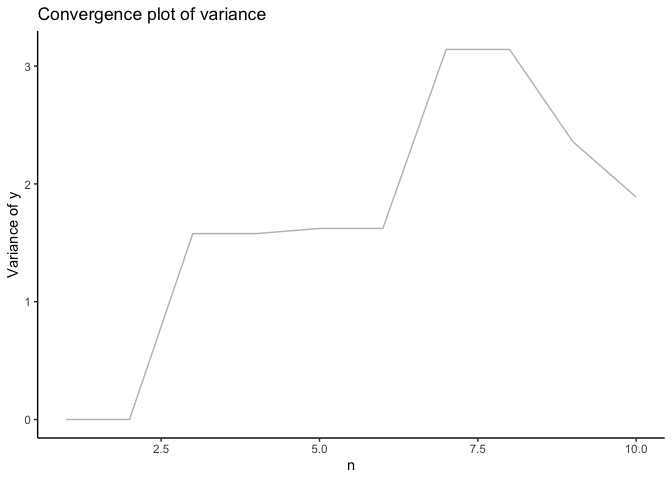
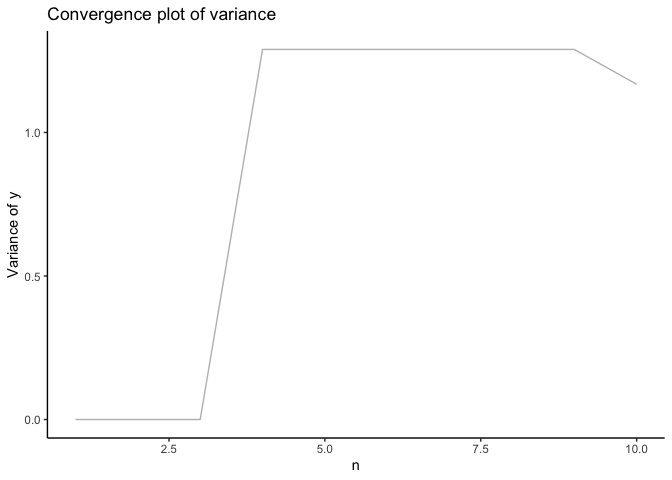
Modification to the readme file.

diff --git a/README.md b/README.md
@@ -70,6 +70,7 @@ f_norm <- "(1/sqrt(2*pi*1^2))*exp((-(x-0)^2)/(2*1^2))"
 q_unif <- "runif(n, -4, 4)"
 
 # Run the main function ar()
+set.seed(0)
 example_norm_unif <- ar(f_norm, q_unif, c=3.2, n=10)
 ```
 
@@ -93,26 +94,26 @@ ar_print(example_norm_unif)
 #> 
 #> 
 #> $data
-#>    index           x           f     q           y          r           u
-#> 1      1  2.23016545 0.033181676 0.125          NA 0.08295419 0.649477553
-#> 2      2 -0.53463665 0.345813140 0.125 -0.53463665 0.86453285 0.441337788
-#> 3      3 -2.31113649 0.027608972 0.125 -2.31113649 0.06902243 0.004346638
-#> 4      4  2.98233924 0.004672261 0.125          NA 0.01168065 0.576691087
-#> 5      5  0.15781470 0.394005160 0.125  0.15781470 0.98501290 0.687093787
-#> 6      6 -2.51275382 0.016976854 0.125          NA 0.04244213 0.440774988
-#> 7      7  1.97478656 0.056765331 0.125  1.97478656 0.14191333 0.115812211
-#> 8      8 -2.85929873 0.006692732 0.125          NA 0.01673183 0.536986188
-#> 9      9 -0.06950995 0.397979672 0.125 -0.06950995 0.99494918 0.132610541
-#> 10    10 -0.07057297 0.397950042 0.125 -0.07057297 0.99487510 0.852391060
+#>    index          x            f     q          y           r          u
+#> 1      1  3.1735776 0.0025935286 0.125         NA 0.006483822 0.06178627
+#> 2      2 -1.8759307 0.0686663151 0.125         NA 0.171665788 0.20597457
+#> 3      3 -1.0230088 0.2364042446 0.125 -1.0230088 0.591010611 0.17655675
+#> 4      4  0.5828269 0.3366262095 0.125  0.5828269 0.841565524 0.68702285
+#> 5      5  3.2656623 0.0019281125 0.125         NA 0.004820281 0.38410372
+#> 6      6 -2.3865446 0.0231274286 0.125         NA 0.057818571 0.76984142
+#> 7      7  3.1871175 0.0024842178 0.125         NA 0.006210544 0.49769924
+#> 8      8  3.5574021 0.0007126689 0.125         NA 0.001781672 0.71761851
+#> 9      9  1.2863823 0.1744131628 0.125         NA 0.436032907 0.99190609
+#> 10    10  1.0329124 0.2340097505 0.125  1.0329124 0.585024376 0.38003518
 #> 
 #> $acceptance_rate
-#> [1] 0.6
+#> [1] 0.3
 #> 
 #> $expected_values_f
-#> [1] -0.1422091
+#> [1] 0.1975768
 #> 
 #> $variance_f
-#> [1] 1.888069
+#> [1] 1.168016
 #> 
 #> $suggested_c
 #> [1] "NA"
@@ -124,9 +125,9 @@ ar_summary(example_norm_unif)
 #> Summary of  example_norm_unif :
 #> ----------------------
 #>      Number of iterations:  10 
-#>      Acceptance rate:  0.6 
-#>      Empirical expected value of target distribution:  -0.1422 
-#>      Empirical variance of target distribution:  1.8881 
+#>      Acceptance rate:  0.3 
+#>      Empirical expected value of target distribution:  0.1976 
+#>      Empirical variance of target distribution:  1.168 
 #>      Suggested minimum c:  NA 
 #> ----------------------
 ```
@@ -163,26 +164,26 @@ print(example_norm_unif)
 #> 
 #> 
 #> $data
-#>    index           x           f     q           y          r           u
-#> 1      1  2.23016545 0.033181676 0.125          NA 0.08295419 0.649477553
-#> 2      2 -0.53463665 0.345813140 0.125 -0.53463665 0.86453285 0.441337788
-#> 3      3 -2.31113649 0.027608972 0.125 -2.31113649 0.06902243 0.004346638
-#> 4      4  2.98233924 0.004672261 0.125          NA 0.01168065 0.576691087
-#> 5      5  0.15781470 0.394005160 0.125  0.15781470 0.98501290 0.687093787
-#> 6      6 -2.51275382 0.016976854 0.125          NA 0.04244213 0.440774988
-#> 7      7  1.97478656 0.056765331 0.125  1.97478656 0.14191333 0.115812211
-#> 8      8 -2.85929873 0.006692732 0.125          NA 0.01673183 0.536986188
-#> 9      9 -0.06950995 0.397979672 0.125 -0.06950995 0.99494918 0.132610541
-#> 10    10 -0.07057297 0.397950042 0.125 -0.07057297 0.99487510 0.852391060
+#>    index          x            f     q          y           r          u
+#> 1      1  3.1735776 0.0025935286 0.125         NA 0.006483822 0.06178627
+#> 2      2 -1.8759307 0.0686663151 0.125         NA 0.171665788 0.20597457
+#> 3      3 -1.0230088 0.2364042446 0.125 -1.0230088 0.591010611 0.17655675
+#> 4      4  0.5828269 0.3366262095 0.125  0.5828269 0.841565524 0.68702285
+#> 5      5  3.2656623 0.0019281125 0.125         NA 0.004820281 0.38410372
+#> 6      6 -2.3865446 0.0231274286 0.125         NA 0.057818571 0.76984142
+#> 7      7  3.1871175 0.0024842178 0.125         NA 0.006210544 0.49769924
+#> 8      8  3.5574021 0.0007126689 0.125         NA 0.001781672 0.71761851
+#> 9      9  1.2863823 0.1744131628 0.125         NA 0.436032907 0.99190609
+#> 10    10  1.0329124 0.2340097505 0.125  1.0329124 0.585024376 0.38003518
 #> 
 #> $acceptance_rate
-#> [1] 0.6
+#> [1] 0.3
 #> 
 #> $expected_values_f
-#> [1] -0.1422091
+#> [1] 0.1975768
 #> 
 #> $variance_f
-#> [1] 1.888069
+#> [1] 1.168016
 #> 
 #> $suggested_c
 #> [1] "NA"
@@ -194,9 +195,9 @@ summary(example_norm_unif)
 #> Summary of  example_norm_unif :
 #> ----------------------
 #>      Number of iterations:  10 
-#>      Acceptance rate:  0.6 
-#>      Empirical expected value of target distribution:  -0.1422 
-#>      Empirical variance of target distribution:  1.8881 
+#>      Acceptance rate:  0.3 
+#>      Empirical expected value of target distribution:  0.1976 
+#>      Empirical variance of target distribution:  1.168 
 #>      Suggested minimum c:  NA 
 #> ----------------------
 ```
@@ -225,17 +226,17 @@ ar_print(example_norm_unif_conv)
 #> Convergence data of  example_norm_unif_conv :
 #> 
 #> $data
-#>    index acceptance_rate_cumulative           y mean_cumulative var_cumulative
-#> 1      1                  0.0000000          NA       0.0000000       0.000000
-#> 2      2                  0.5000000 -0.53463665      -0.5346367       0.000000
-#> 3      3                  0.6666667 -2.31113649      -1.4228866       1.577976
-#> 4      4                  0.5000000          NA      -1.4228866       1.577976
-#> 5      5                  0.6000000  0.15781470      -0.8959861       1.621860
-#> 6      6                  0.5000000          NA      -0.8959861       1.621860
-#> 7      7                  0.5714286  1.97478656      -0.1782930       3.141574
-#> 8      8                  0.5000000          NA      -0.1782930       3.141574
-#> 9      9                  0.5555556 -0.06950995      -0.1565364       2.358547
-#> 10    10                  0.6000000 -0.07057297      -0.1422091       1.888069
+#>    index acceptance_rate_cumulative          y mean_cumulative var_cumulative
+#> 1      1                  0.0000000         NA       0.0000000       0.000000
+#> 2      2                  0.0000000         NA       0.0000000       0.000000
+#> 3      3                  0.3333333 -1.0230088      -1.0230088       0.000000
+#> 4      4                  0.5000000  0.5828269      -0.2200909       1.289354
+#> 5      5                  0.4000000         NA      -0.2200909       1.289354
+#> 6      6                  0.3333333         NA      -0.2200909       1.289354
+#> 7      7                  0.2857143         NA      -0.2200909       1.289354
+#> 8      8                  0.2500000         NA      -0.2200909       1.289354
+#> 9      9                  0.2222222         NA      -0.2200909       1.289354
+#> 10    10                  0.3000000  1.0329124       0.1975768       1.168016
 ```
 
 ``` r
@@ -243,9 +244,9 @@ ar_print(example_norm_unif_conv)
 ar_summary(example_norm_unif_conv)
 #> Convergence summary of  example_norm_unif_conv :
 #> ----------------------
-#>      Acceptance rate:  0.6 
-#>      Empirical expected value of target distribution:  -0.1422 
-#>      Empirical variance of target distribution:  1.8881 
+#>      Acceptance rate:  0.3 
+#>      Empirical expected value of target distribution:  0.1976 
+#>      Empirical variance of target distribution:  1.168 
 #> ----------------------
 ```
 
@@ -628,14 +629,15 @@ the vignette):
 f_norm <- "(1/sqrt(2*pi*1^2))*exp((-(x-0)^2)/(2*1^2))"
 q_norm <- "rnorm(n, 0, 1)"
 
+set.seed(0)
 example_norm <- ar(f_norm, q_norm, c=1, n=1000)
 summary(example_norm)
 #> Summary of  example_norm :
 #> ----------------------
 #>      Number of iterations:  1000 
 #>      Acceptance rate:  1 
-#>      Empirical expected value of target distribution:  0.0393 
-#>      Empirical variance of target distribution:  1.0593 
+#>      Empirical expected value of target distribution:  -0.0158 
+#>      Empirical variance of target distribution:  0.996 
 #>      Suggested minimum c:  NA 
 #> ----------------------
 ```
@@ -645,14 +647,15 @@ summary(example_norm)
 f_unif <- "1"
 q_unif <- "runif(n, 0, 1)"
 
+set.seed(0)
 example_unif <- ar(f_unif, q_unif, c=1, n=1000)
 summary(example_unif)
 #> Summary of  example_unif :
 #> ----------------------
 #>      Number of iterations:  1000 
 #>      Acceptance rate:  1 
-#>      Empirical expected value of target distribution:  0.5038 
-#>      Empirical variance of target distribution:  0.0777 
+#>      Empirical expected value of target distribution:  0.5006 
+#>      Empirical variance of target distribution:  0.0833 
 #>      Suggested minimum c:  NA 
 #> ----------------------
 ```
@@ -662,14 +665,15 @@ summary(example_unif)
 f_gamma <- "((2^3)/(gamma(3)))*x^(3-1)*exp(-2*x)"
 q_gamma <- "rgamma(n, 3, 2)"
 
+set.seed(0)
 example_gamma <- ar(f_gamma, q_gamma, c=1, n=1000)
 summary(example_gamma)
 #> Summary of  example_gamma :
 #> ----------------------
 #>      Number of iterations:  1000 
 #>      Acceptance rate:  1 
-#>      Empirical expected value of target distribution:  1.5283 
-#>      Empirical variance of target distribution:  0.7964 
+#>      Empirical expected value of target distribution:  1.496 
+#>      Empirical variance of target distribution:  0.7919 
 #>      Suggested minimum c:  NA 
 #> ----------------------
 ```
@@ -679,14 +683,15 @@ summary(example_gamma)
 f_beta <- "((gamma(3+2))/gamma(3)*gamma(2))*x^(3-1)*(1-x)^(2-1)"
 q_beta <- "rbeta(n, 3, 2)"
 
+set.seed(0)
 example_beta <- ar(f_beta, q_beta, c=1, n=1000)
 summary(example_beta)
 #> Summary of  example_beta :
 #> ----------------------
 #>      Number of iterations:  1000 
 #>      Acceptance rate:  1 
-#>      Empirical expected value of target distribution:  0.6013 
-#>      Empirical variance of target distribution:  0.0402 
+#>      Empirical expected value of target distribution:  0.6122 
+#>      Empirical variance of target distribution:  0.0394 
 #>      Suggested minimum c:  NA 
 #> ----------------------
 ```
@@ -696,14 +701,15 @@ summary(example_beta)
 f_exp <- "3*exp(-3*x)"
 q_exp <- "rexp(n, 3)"
 
+set.seed(0)
 example_exp <- ar(f_exp, q_exp, c=1, n=1000)
 summary(example_exp)
 #> Summary of  example_exp :
 #> ----------------------
 #>      Number of iterations:  1000 
 #>      Acceptance rate:  1 
-#>      Empirical expected value of target distribution:  0.3495 
-#>      Empirical variance of target distribution:  0.1234 
+#>      Empirical expected value of target distribution:  0.3432 
+#>      Empirical variance of target distribution:  0.1085 
 #>      Suggested minimum c:  NA 
 #> ----------------------
 ```
@@ -757,14 +763,15 @@ densities, as instructed below:
 f_norm <- "(1/sqrt(2*pi*1^2))*exp((-(x-0)^2)/(2*1^2))"
 q_unif <- "runif(n, -4, 4)" # to accommodate the lower and upper limit of N(0,1) distribution
 
+set.seed(0)
 example_norm_unif <- ar(f_norm, q_unif, c=1, n=10000) # run longer for convergence
 summary(example_norm_unif)
 #> Summary of  example_norm_unif :
 #> ----------------------
 #>      Number of iterations:  10000 
-#>      Acceptance rate:  0.5095 
-#>      Empirical expected value of target distribution:  -0.0143 
-#>      Empirical variance of target distribution:  1.5599 
+#>      Acceptance rate:  0.502 
+#>      Empirical expected value of target distribution:  -0.0246 
+#>      Empirical variance of target distribution:  1.5743 
 #>      Suggested minimum c:  3.1915 
 #> ----------------------
 ```
@@ -780,14 +787,15 @@ example code:
 f_norm <- "(1/sqrt(2*pi*1^2))*exp((-(x-0)^2)/(2*1^2))"
 q_unif <- "runif(n, -4, 4)" # to accommodate the lower and upper limit of N(0,1) distribution
 
+set.seed(0)
 example_norm_unif <- ar(f_norm, q_unif, c=3.2, n=10000) # change the value of c to the suggested minimum.
 summary(example_norm_unif)
 #> Summary of  example_norm_unif :
 #> ----------------------
 #>      Number of iterations:  10000 
-#>      Acceptance rate:  0.3168 
-#>      Empirical expected value of target distribution:  0.0074 
-#>      Empirical variance of target distribution:  1.0092 
+#>      Acceptance rate:  0.3087 
+#>      Empirical expected value of target distribution:  -0.0163 
+#>      Empirical variance of target distribution:  1.0119 
 #>      Suggested minimum c:  NA 
 #> ----------------------
 ```
